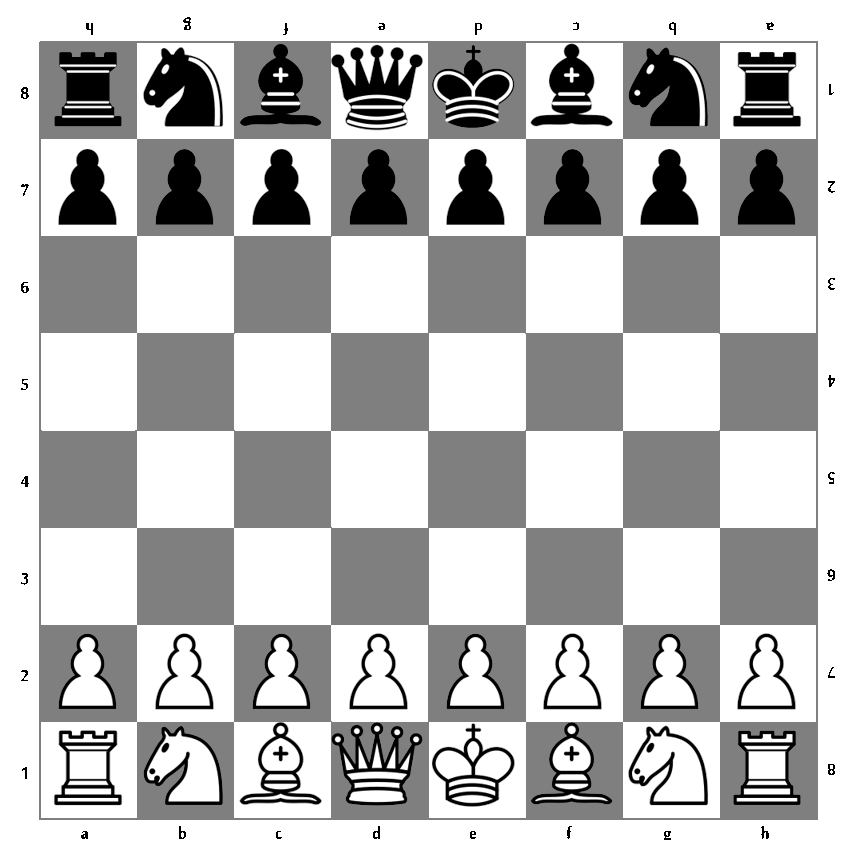
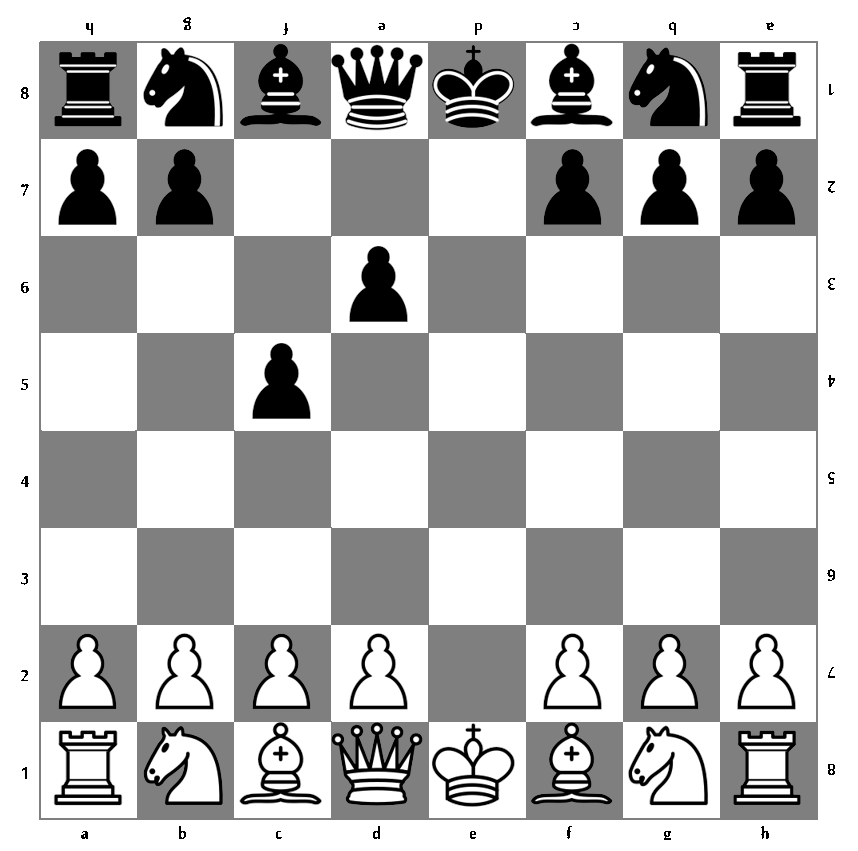
added correct pawn functionality

diff --git a/Chesster.py b/Chesster.py
@@ -25,16 +25,17 @@ async def start_game(ctx, p1: discord.Member, p2: discord.Member):
     global player1
     global player2
     global turn
+    global piece_turn
     global game_started
 
-    board = [[2, 3, 4, 6, 5, 4, 3, 2], 
+    board = [[2, 3, 4, 5, 6, 4, 3, 2], 
              [1, 1, 1, 1, 1, 1, 1, 1], 
              [0, 0, 0, 0, 0, 0, 0, 0],
              [0, 0, 0, 0, 0, 0, 0, 0],
              [0, 0, 0, 0, 0, 0, 0, 0],
              [0, 0, 0, 0, 0, 0, 0, 0],
              [7, 7, 7, 7, 7, 7, 7, 7],
-             [8, 9, 10, 12, 11, 10, 9, 8]]
+             [8, 9, 10, 11, 12, 10, 9, 8]]
 
     player1 = p1
     player2 = p2
@@ -42,6 +43,7 @@ async def start_game(ctx, p1: discord.Member, p2: discord.Member):
     await ctx.send(f"Game has started between {player1} and {player2}")
 
     first_turn = random.randint(0, 1)
+    piece_turn = 0
 
     if(first_turn):
         turn = p2
@@ -61,6 +63,7 @@ async def has_game_started(ctx):
 @commands.check(has_game_started)
 async def place(ctx, pos1: str, pos2: str):
     global turn
+    global piece_turn
 
     if(game_started == False):
         print("games hasnt started hoe")
@@ -81,24 +84,29 @@ async def place(ctx, pos1: str, pos2: str):
 
     dest_x, dest_y = find_coor(pos2)
 
-    if(row > num_rows or col > num_cols or row <= 0 or col <= 0):
-        await ctx.send("Please enter a valid row/column.")
+    if(not check_rules(or_x, or_y, dest_x, dest_y)):
+        await ctx.send("Please enter valid positions.")
         return
-
-    position = (row - 1) * num_cols + (col - 1)
-
-    if(board[position] != 0):
-        await ctx.send(f"There already is a piece placed at row {row} and column {col}, please try again.")
-        return
-        
-    if(turn == player1):
-        board[position] = 1
-    else:
-        board[position] = 2
+    
+    board[dest_x][dest_y] = board[or_x][or_y] 
+    board[or_x][or_y] = 0
 
     await draw_board(ctx)
-    await ctx.send(f"Piece placed at row {row} and column {col}.")
 
+    moved_piece = board[dest_x][dest_y]
+    if(moved_piece == 1 or moved_piece == 7):
+        await ctx.send(f"Pawn placed at {pos2.upper()}.")
+    elif(moved_piece == 2 or moved_piece == 8):
+        await ctx.send(f"Rook placed at {pos2.upper()}.")
+    elif(moved_piece == 3 or moved_piece == 9):
+        await ctx.send(f"Knight placed at {pos2.upper()}.")
+    elif(moved_piece == 4 or moved_piece == 10):
+        await ctx.send(f"Bishop placed at {pos2.upper()}.")
+    elif(moved_piece == 5 or moved_piece == 11):
+        await ctx.send(f"Queen placed at {pos2.upper()}.")
+    elif(moved_piece == 6 or moved_piece == 12):
+        await ctx.send(f"King placed at {pos2.upper()}.")
+    
     if(await check_win_con(ctx)):
         return
     else:
@@ -109,6 +117,8 @@ async def place(ctx, pos1: str, pos2: str):
             turn = player1
             await ctx.send(f"It is {player1}'s turn.")
 
+    piece_turn = 1 - piece_turn
+    
 def find_coor(str):
     row = -1
     col = -1
@@ -150,7 +160,42 @@ def find_coor(str):
     return row, col
 
 def is_valid_pos(pos1, pos2):
+    char_set = {'a', 'b', 'c', 'd', 'e', 'f', 'g', 'h'}
+    int_set = {'1', '2', '3', '4', '5', '6', '7', '8'}
+
+    if(pos1[0] not in char_set or pos1[1] not in int_set):
+        return False
+
+    if(pos2[0] not in char_set or pos2[1] not in int_set):
+        return False
+
     return True
+
+def check_rules(or_x, or_y, dest_x, dest_y):
+    global piece_turn
+
+    if (piece_turn == 0 and board[or_x][or_y] < 7 and board[or_x][or_y] > 0) or (piece_turn == 1 and board[or_x][or_y] > 6):
+        return False
+    
+    if (piece_turn == 0 and board[dest_x][dest_y] > 6) or (piece_turn == 1 and board[dest_x][dest_y] < 7 and board[dest_x][dest_y] > 0):
+        return False
+    
+    if board[or_x][or_y] == 1:
+        if abs(dest_y - or_y) == 1 and dest_x - or_x == 1 and board[dest_x][dest_y] > 6:
+            return True
+        elif or_x == 1 and dest_y == or_y and dest_x - or_x == 2 and board[dest_x][dest_y] == 0:
+            return True
+        elif dest_y == or_y and dest_x - or_x == 1 and board[dest_x][dest_y] == 0:
+            return True
+    elif board[or_x][or_y] == 7:
+        if abs(dest_y - or_y) == 1 and or_x - dest_x == 1 and board[dest_x][dest_y] < 7 and board[dest_x][dest_y] > 0:
+            return True
+        elif or_x == 6 and dest_y == or_y and or_x - dest_x == 2 and board[dest_x][dest_y] == 0:
+            return True
+        elif dest_y == or_y and or_x - dest_x == 1 and board[dest_x][dest_y] == 0:
+            return True
+        
+    return False
 
 async def draw_board(ctx):
     cboard = Image.open("chessboard.png")
@@ -225,6 +270,8 @@ async def draw_board(ctx):
     await ctx.send(file=discord.File('currboard.png'))
         
 async def check_win_con(ctx):
+    return False
+    '''
     global game_started
     win_true = False
 
@@ -301,5 +348,6 @@ async def check_win_con(ctx):
         await ctx.send(f"Congrats player {turn} on winning the game!")
         game_started = False
         return True
+    '''
 
 bot.run(TOKEN)
